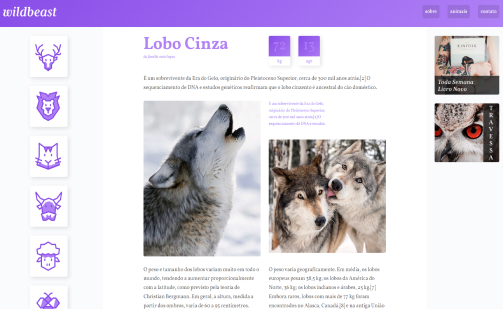
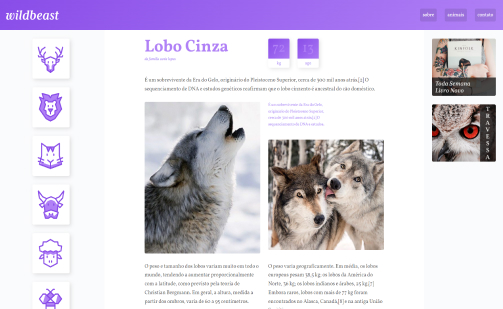
Projetos

diff --git a/projetos.html b/projetos.html
@@ -69,14 +69,14 @@
         </div>
         <div class="code-botao">
            <div class="botao-link">
-              <a class="olho" href="/" target="_blank"><img src="media/svg/eye.svg" height="24" width="24" alt="Navegar para o site" title="Navegar para o site"></a>
+              <a class="olho" href="https://juberlandio.github.io/wildbeast/" target="_blank"><img src="media/svg/eye.svg" height="24" width="24" alt="Navegar para o site" title="Navegar para o site"></a>
            </div>
            <div class="botao-link">
-              <a class="code" href="/" target="_blank"><img src="media/svg/code.svg" height="24" width="24" alt="Navegar para o site" title="Navegar para o código"></a>
+              <a class="code" href="https://github.com/Juberlandio/wildbeast" target="_blank"><img src="media/svg/code.svg" height="24" width="24" alt="Navegar para o site" title="Navegar para o código"></a>
            </div>
         </div>
         <picture class="imagem">
-          <a href="https://juberlandio.github.io/bikcraft/" target="_blank"><img src="./media/img/wildbeast.jpg" width="503" height="309" alt=""></a>
+          <a href="https://juberlandio.github.io/wildbeast/" target="_blank"><img src="./media/img/wildbeast.jpg" width="503" height="309" alt=""></a>
         </picture>
     </div>
   </div>

diff --git a/index.html b/index.html
@@ -99,10 +99,10 @@
         </div>
         <div class="code-botao">
            <div class="botao-link">
-              <a class="olho" href="/" target="_blank"><img src="media/svg/eye.svg" height="24" width="24" alt="Navegar para o site" title="Navegar para o site"></a>
+              <a class="olho" href="https://juberlandio.github.io/wildbeast/" target="_blank"><img src="media/svg/eye.svg" height="24" width="24" alt="Navegar para o site" title="Navegar para o site"></a>
            </div>
            <div class="botao-link">
-              <a class="code" href="/" target="_blank"><img src="media/svg/code.svg" height="24" width="24" alt="Navegar para o site" title="Navegar para o código"></a>
+              <a class="code" href="https://github.com/Juberlandio/wildbeast" target="_blank"><img src="media/svg/code.svg" height="24" width="24" alt="Navegar para o site" title="Navegar para o código"></a>
            </div>
         </div>
         <picture class="imagem">

diff --git a/css/cores.css b/css/cores.css
@@ -2,7 +2,7 @@
   --cor-0: #ffffff;
   --cor-1: #FCFCFC;
   --cor-2: #FAFAFA;
-  --cor-3: #dedede;
+  --cor-3: #F8F8F8;
   --cor-4: #cccccc;
   --cor-5: #b2b2b2;
   --cor-6: #9c9c9c;
